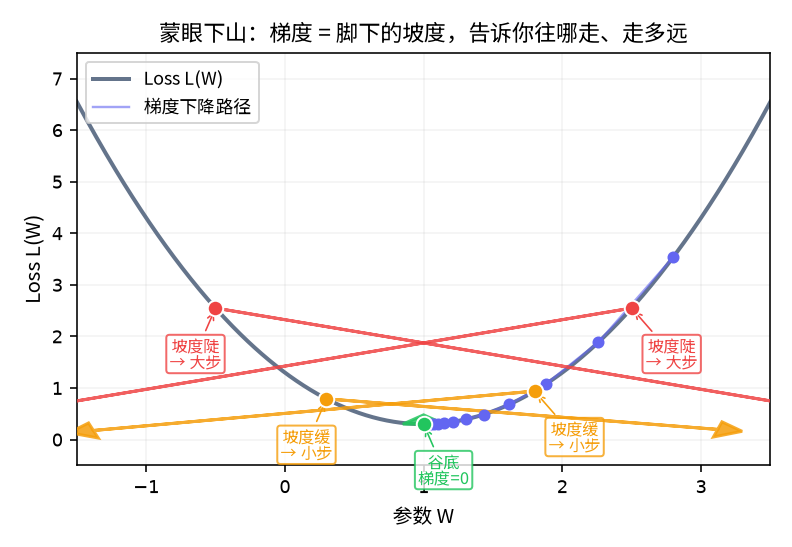
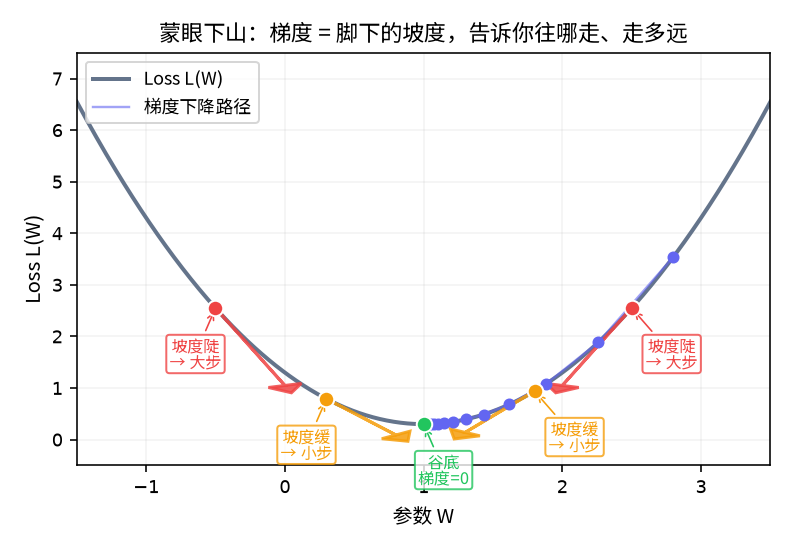
fix: gradient-intuition.png 箭头改为正确切线斜率
之前 dy 用固定系数 0.15，斜率恒为 0.15
现在 dy = grad * dx，斜率 = 真实梯度值

diff --git a/scripts/gen_v2_images.py b/scripts/gen_v2_images.py
@@ -74,13 +74,13 @@ for pt in points:
     # Point marker
     ax.scatter([W], [L], c=pt["color"], s=60, zorder=10, edgecolors="white", linewidth=1)
 
-    # Gradient arrow (derivative direction, scaled)
-    arrow_len = abs(grad) * 1.8 + 0.3
-    # Arrow goes DOWNHILL: if grad>0, go left (W decreasing); if grad<0, go right
-    dx = -np.sign(grad) * arrow_len
-    dy = -abs(grad) * arrow_len * 0.15  # slight downward slope for visual
-    ax.arrow(W, L, dx, dy, head_width=0.3, head_length=0.18,
-             fc=pt["color"], ec=pt["color"], alpha=0.85, lw=1.5, zorder=5)
+    # Tangent arrow: points downhill along the actual tangent line
+    # For L=(W-1)²: grad = 2(W-1). dy/dx = grad.
+    if abs(grad) > 0.01:  # skip valley (grad=0, no slope)
+        arrow_dx = -np.sign(grad) * 0.5
+        arrow_dy = grad * arrow_dx
+        ax.arrow(W, L, arrow_dx, arrow_dy, head_width=0.25, head_length=0.15,
+                 fc=pt["color"], ec=pt["color"], alpha=0.85, lw=1.5, zorder=5)
 
     # Label
     ax.annotate(pt["label"], (W, L), textcoords="offset points",
